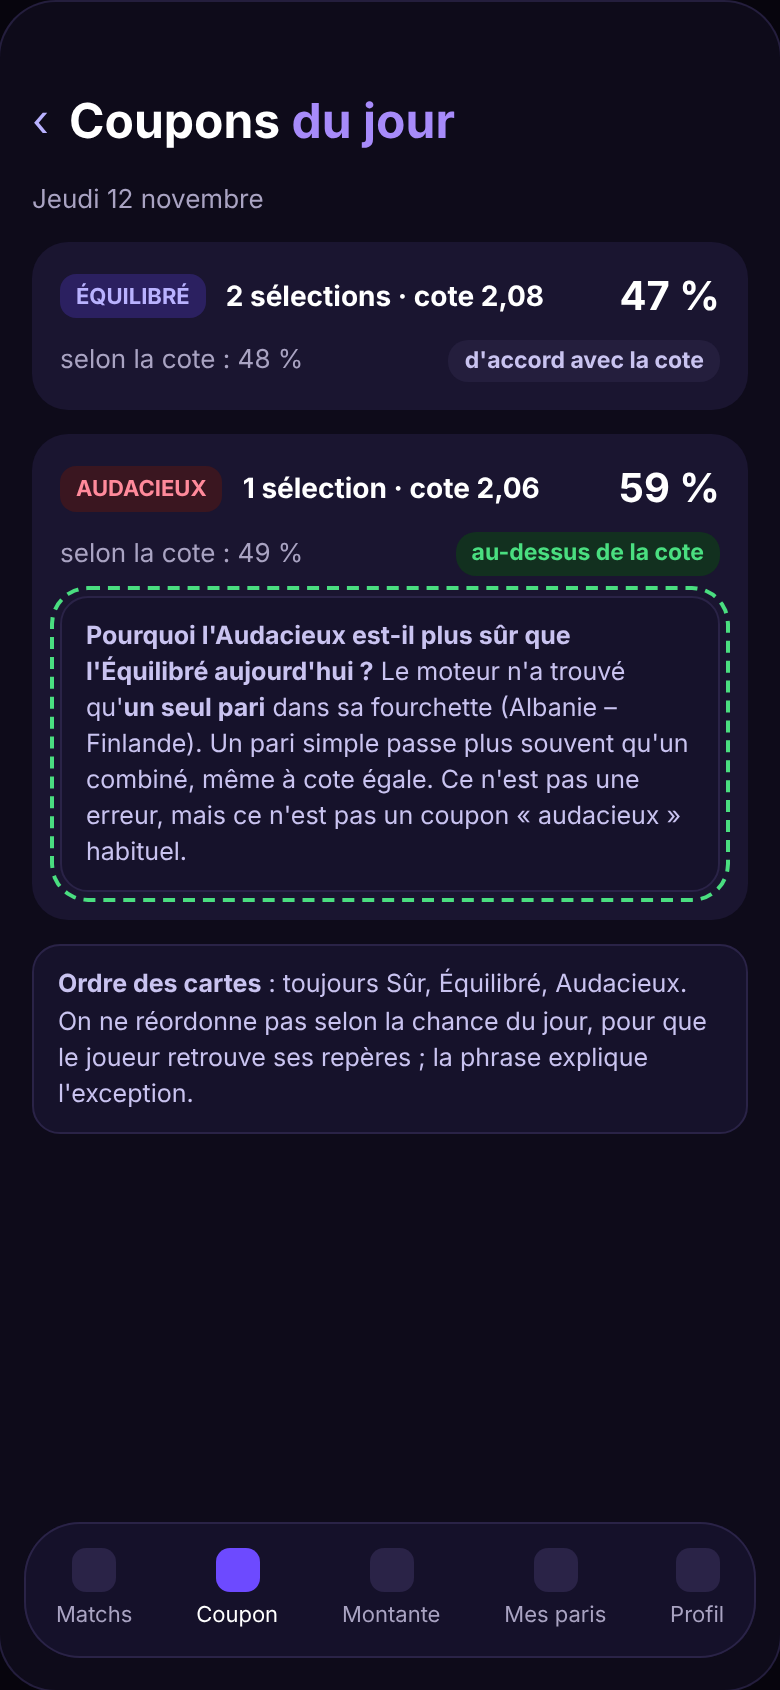
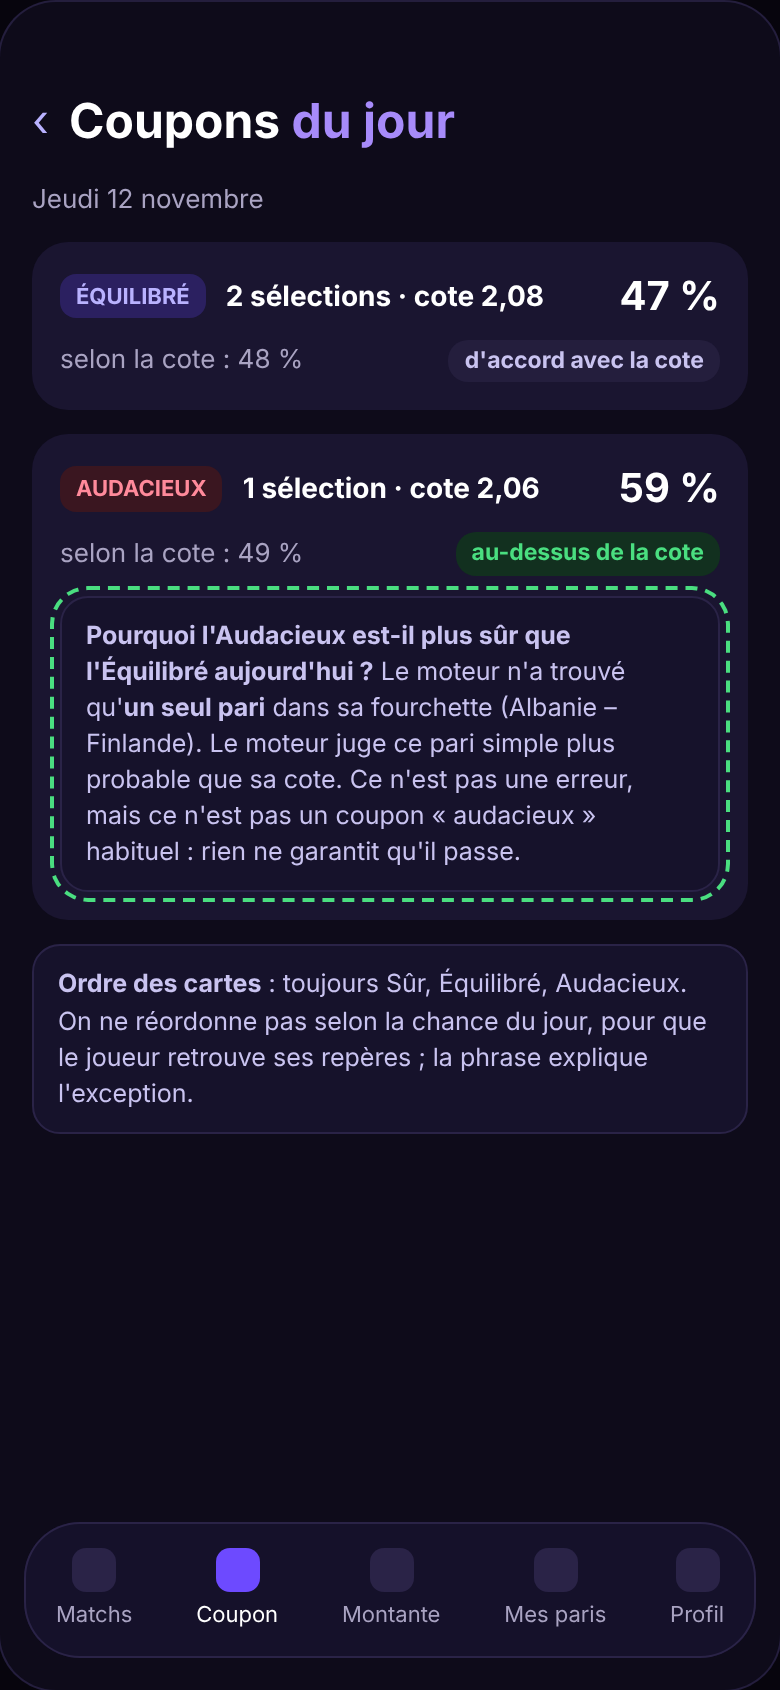
Équipe d'audit : rapport et maquettes du designer (P1 à P4)
Claude-Session: https://claude.ai/code/session_01K6y48fbCsoea4iFYWW8iYx

Changed region(s): [[0.1231, 0.4308, 0.8615, 0.5231]]

diff --git a/docs/maquettes/9-propositions-designer/propositions.html b/docs/maquettes/9-propositions-designer/propositions.html
@@ -143,7 +143,7 @@ figcaption b{color:#fff;font-size:15px;display:block;margin-bottom:2px}
 <div class="c">
  <div class="row"><span class="tag rd">AUDACIEUX</span><span class="sp b">1 sélection · cote 2,06</span><div class="b" style="font-size:20px">59 %</div></div>
  <div class="row" style="margin-top:8px;justify-content:space-between"><span class="mu2">selon la cote : 49 %</span><span class="chip gr">au-dessus de la cote</span></div>
- <div class="info new" style="margin-top:10px"><b>Pourquoi l'Audacieux est-il plus sûr que l'Équilibré aujourd'hui ?</b> Le moteur n'a trouvé qu'<b>un seul pari</b> dans sa fourchette (Albanie – Finlande). Un pari simple passe plus souvent qu'un combiné, même à cote égale. Ce n'est pas une erreur, mais ce n'est pas un coupon « audacieux » habituel.</div>
+ <div class="info new" style="margin-top:10px"><b>Pourquoi l'Audacieux est-il plus sûr que l'Équilibré aujourd'hui ?</b> Le moteur n'a trouvé qu'<b>un seul pari</b> dans sa fourchette (Albanie – Finlande). Le moteur juge ce pari simple plus probable que sa cote. Ce n'est pas une erreur, mais ce n'est pas un coupon « audacieux » habituel : rien ne garantit qu'il passe.</div>
 </div>
 <div class="info"><b>Ordre des cartes</b> : toujours Sûr, Équilibré, Audacieux. On ne réordonne pas selon la chance du jour, pour que le joueur retrouve ses repères ; la phrase explique l'exception.</div>
 </div><div class="nav"><span><i></i>Matchs</span><span class="on"><i></i>Coupon</span><span><i></i>Montante</span><span><i></i>Mes paris</span><span><i></i>Profil</span></div></div>

diff --git a/docs/AUDIT_EQUIPE/design-2026-11-14.md b/docs/AUDIT_EQUIPE/design-2026-11-14.md
@@ -1,0 +1,90 @@
+# Design — 14 novembre 2026
+
+Agent designer. Rien n'a été modifié dans `app/` ni `backend/`. Maquettes et captures :
+`docs/maquettes/9-propositions-designer/` (ouvrir `propositions.html`). Captures « avant »
+prises sur https://footproba.duckdns.org/app/ le 14/11 au matin, compte de test Premium.
+
+Quatre propositions, tirées des audits de jeu du 12, 13 et 14/11, de l'audit du direct du
+13/11 et de l'audit du logo du 13/11. Toutes sont **à valider par le fondateur**.
+
+## P1 — Coupon intelligent : avertir quand le moteur est sous la cote
+
+- **Problème.** Le 14/11, le Coupon intelligent Équilibré propose une cote de 1,91 avec 41 %
+  selon le moteur, contre 52,4 % selon la cote. L'écran l'écrit, mais en petit gris sous le
+  pourcentage : un joueur pressé ne compare pas. Même constat les 12 et 13/11
+  (`AUDIT_JEU_2026-11-12.md`, `-13.md` : les trois profils sous la cote). La montante et le
+  coupon en direct ont déjà cet avertissement ; le Coupon intelligent non.
+- **Solution.** Deux barres « Le moteur » / « Selon la cote » sous la cote totale, et un
+  encadré ambre : « Le moteur est moins confiant que la cote sur ce coupon : 41 % contre
+  52 %. À long terme, ce genre de coupon fait perdre de l'argent. Un joueur prudent le
+  laisse de côté. » En vert si le moteur est au-dessus, avec « ne garantit rien ». Une
+  pastille « moteur 75 % · cote 81 % » sur chaque sélection. Le bouton d'ajout reste : on
+  informe, on n'interdit pas.
+- **Ce que le joueur y gagne.** Il voit en une seconde si le coupon vaut sa cote.
+- **Avant / après.** `avant/P1-avant-coupon-intelligent.png` → `P1a-apres.png`,
+  `P1b-apres.png` (côte à côte : `P1-avant-apres.png`).
+- **Effort : petit.** Seulement l'application : `probability` et `implied_probability`
+  arrivent déjà de `/smart-coupon`.
+
+## P2 — Coupons du jour : chance selon la cote, et l'Audacieux expliqué
+
+- **Problème.** Les cartes des Coupons du jour n'affichent que la chance du moteur. Le
+  14/11 : Sûr 1,97 · 57 %, Audacieux 2,02 · 34 %. Presque la même cote, bien moins de
+  chances, environ 15 points sous la cote, et rien ne le signale. Le 12/11, l'inverse :
+  Audacieux 59 % (une seule sélection) plus sûr que l'Équilibré 47 % (« déroutant »,
+  `AUDIT_JEU_2026-11-12.md`).
+- **Solution.** Sur chaque carte : « selon la cote : 50 % » et une pastille (« au-dessus de
+  la cote », « d'accord avec la cote », « ⚠ sous la cote »). Une phrase quand l'ordre
+  Sûr → Audacieux n'est pas respecté : cote presque égale au Sûr, ou Audacieux plus sûr
+  parce qu'il n'a qu'un seul pari. L'ordre des cartes ne change pas.
+- **Ce que le joueur y gagne.** Il ne prend plus « Audacieux » pour « plus de gain » ou
+  « plus sûr » par erreur.
+- **Avant / après.** `avant/P2-avant-coupons-du-jour.png` → `P2a-apres.png`, `P2b-apres.png`.
+- **Effort : petit à moyen.** Pastilles : application seule (cote totale connue). Phrase
+  d'exception : une règle simple à écrire (comparer cotes et chances des trois profils du
+  jour), côté application ou serveur.
+- **À trancher par le fondateur.** Publier quand même un Audacieux nettement sous la cote,
+  ou ne pas le publier ce jour-là (piste de l'audit du 12/11) ? La maquette garde la
+  publication, avec l'avertissement.
+
+## P3 — Page d'accueil : le logo devant le nom
+
+- **Problème.** La page d'accueil affiche « FootProba » sans le logo Ballon-jauge B3 validé
+  le 13/11 (`AUDIT_JEU_2026-11-13.md`, 10 h 58). Le code le dit : « Maquette : FootProba
+  écrit seul, sans le carré du logo » (maquette du 07/11, d'avant le nouveau logo).
+- **Solution.** L'icône B3 (36 × 36, coins arrondis 10) à gauche du nom, comme dans la
+  console. Rien d'autre ne change.
+- **Ce que le joueur y gagne.** Il reconnaît l'application qu'il vient d'installer.
+- **Avant / après.** `avant/P3-avant-accueil.png` → `P3a-apres.png`.
+- **Effort : petit.** Le widget `FpLogo` existe déjà (utilisé sur les autres écrans).
+
+## P4 — Notifications : des messages justes et sans doublon
+
+- **Problème.** Relevé dans `AUDIT_DIRECT_2026-11-13.md` et visible dans l'écran
+  Notifications :
+  1. « tout se joue sur Belgique – Italie (19:45) » sans la date : le match est le 15/11 ;
+  2. « Ton coupon de 5 000 F » pour un pari simple ;
+  3. « Pari perdu » et « Montante perdue » à la même seconde ;
+  4. « ⏰ » dans le titre et au début du texte.
+- **Solution.** « dimanche 15/11 à 19:45 » quand le match n'est pas le jour même ; « ton
+  pari » pour une seule sélection, « ton coupon n° … » sinon ; une seule notification
+  « Palier 1 de ta montante perdu » ; un seul ⏰ (dans le titre).
+- **Ce que le joueur y gagne.** Il comprend chaque message du premier coup et en reçoit
+  moins.
+- **Avant / après.** `avant/P4-avant-notifications.png` → `P4a-apres.png`.
+- **Effort : petit.** Textes des notifications côté serveur (`live_alerts.py`,
+  `kickoff.py`), aucun écran à changer.
+
+## Non retenu aujourd'hui
+
+- Mode Montante : déjà proposé (`docs/maquettes/8-mode-montante/`).
+- Coupon en direct sous la cote : le filtre « chance du moteur ≥ 1/cote + 3 points » est en
+  ligne depuis la décision du fondateur du 13/11 (`9ef823e`), avec l'avertissement « moteur
+  < cote » ; rien à dessiner de plus avant d'avoir vu une fenêtre en direct.
+- « Rep. Of Ireland » non traduit (`AUDIT_JEU_2026-11-14.md`) : correction de données, pas
+  de design.
+
+## Jeu responsable
+
+Aucune maquette n'ajoute de bouton qui pousse à parier. P1 et P2 donnent au joueur une
+raison de **ne pas** jouer un coupon. Le vert dit toujours « ne garantit rien ».

diff --git a/docs/maquettes/9-propositions-designer/LISEZ-MOI.md b/docs/maquettes/9-propositions-designer/LISEZ-MOI.md
@@ -1,0 +1,26 @@
+# Propositions du designer — 14 novembre 2026 — à valider
+
+Quatre améliorations, une idée chacune. Avant : captures du site en ligne le 14/11 au matin
+(compte de test Premium, argent fictif). Après : maquettes HTML, même style que
+`2-corrigees/` (fond `#0E0B1A`, cartes `#1A1530`, violet `#6D4AFF`, Inter, écrans 390 × 844).
+Les chiffres sont ceux des vrais coupons du 12 et du 14/11. Les contours verts en pointillés
+montrent ce qui change.
+
+Ouvrir `propositions.html` dans Chrome (tout côte à côte), ou regarder les PNG.
+
+| # | Sujet | Avant | Après |
+|---|---|---|---|
+| P1 | Coupon intelligent : avertir quand le moteur est sous la cote | `avant/P1-avant-coupon-intelligent.png` | `P1a-apres.png` (sous la cote), `P1b-apres.png` (au-dessus), `P1-avant-apres.png` |
+| P2 | Coupons du jour : chance selon la cote sur chaque carte, et phrase quand l'Audacieux n'est pas plus risqué | `avant/P2-avant-coupons-du-jour.png` | `P2a-apres.png` (14/11), `P2b-apres.png` (cas du 12/11), `P2-avant-apres.png` |
+| P3 | Page d'accueil : logo Ballon-jauge B3 devant « FootProba » | `avant/P3-avant-accueil.png` | `P3a-apres.png`, `P3-avant-apres.png` |
+| P4 | Notifications : date, « ton pari » ou « ton coupon », une seule notification par palier de montante, un seul ⏰ | `avant/P4-avant-notifications.png` | `P4a-apres.png`, `P4-avant-apres.png` |
+
+Règle de couleur commune (P1, P2), la même que la montante et le coupon en direct :
+**ambre** si le moteur est au moins 2 points sous la cote, **vert** s'il est au moins 2
+points au-dessus, **gris** (« d'accord avec la cote ») sinon. Le vert ne promet jamais de
+gain (« ne garantit rien »).
+
+Pas refait : le Mode Montante (`8-mode-montante/`) et le coupon en direct (filtre « chance du
+moteur ≥ cote + 3 points » déjà décidé par le fondateur le 13/11, `9ef823e`).
+
+Détail, effort et raisons : `docs/AUDIT_EQUIPE/design-2026-11-14.md`.
